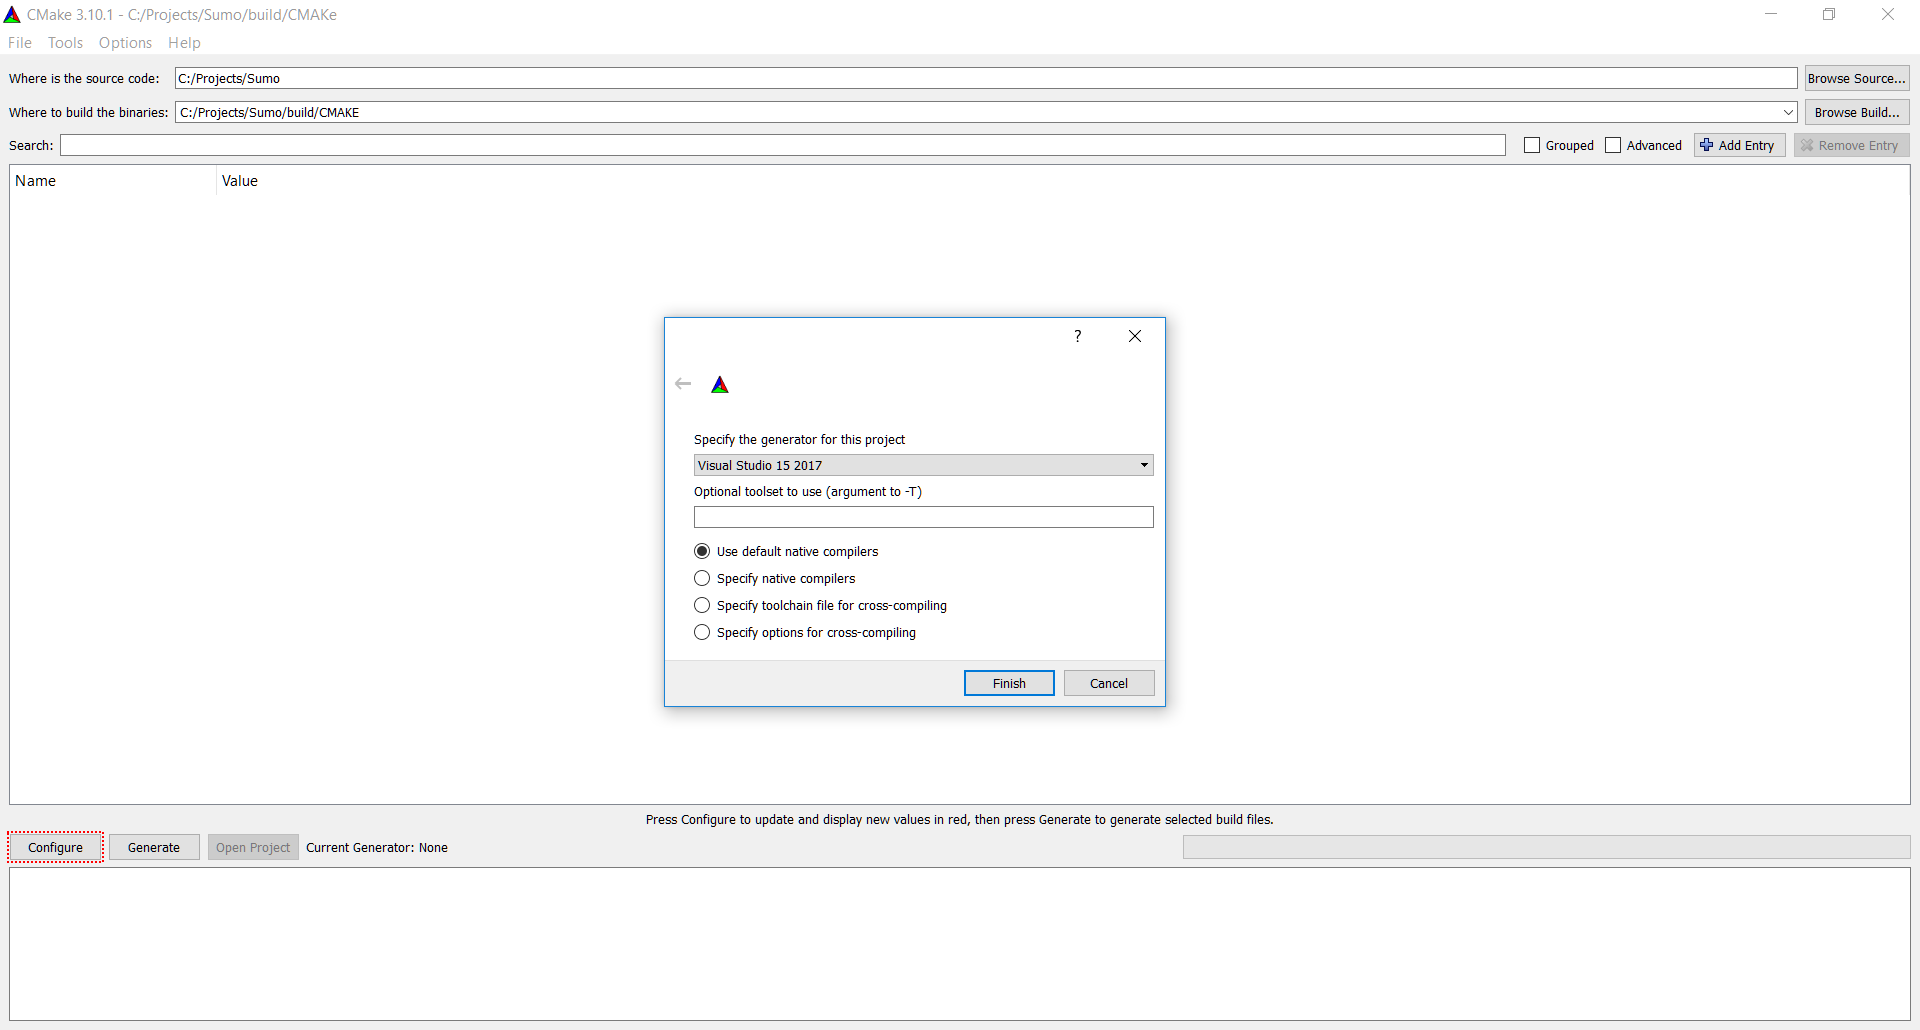
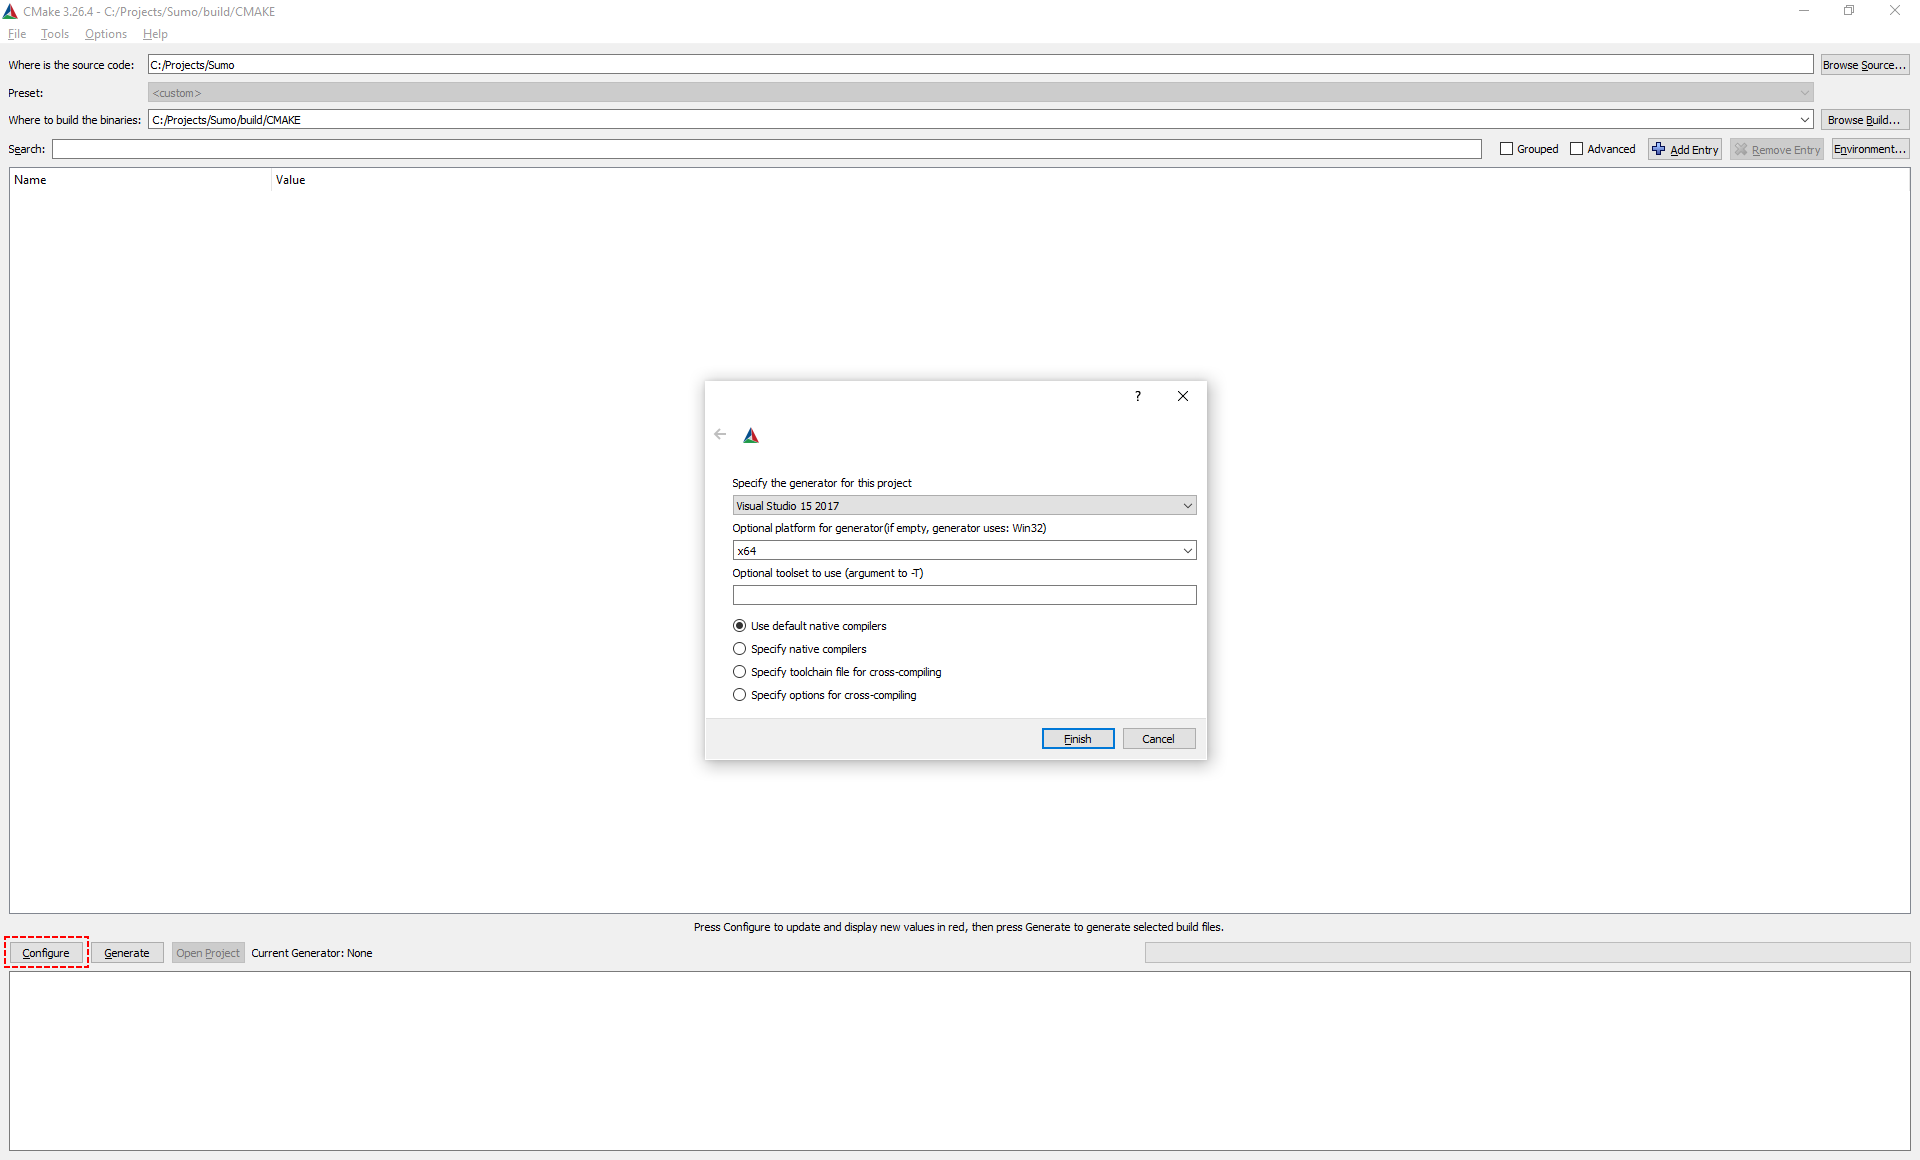
#2 adding an instruction to the CMake configuration

diff --git a/docs/web/docs/Installing/Windows_Build.md b/docs/web/docs/Installing/Windows_Build.md
@@ -116,7 +116,8 @@ pip install -r tools\requirements.txt
   - It can be identical to the source path, but we recommend to separate them
   - Build directory will be created if necessary
 - Start configuration by pressing the "Configure" button
-  - Select compiler (the default should do)
+  - Select the compiler (the default should do)
+  - Select the platform `x64`
 - Create the Visual Studio solution by clicking on "Generate"
 - Open the generated solution (.sln file) (e.g. *D:\\projects\\sumo\\cmake-build\\SUMO.sln*) using the File Explorer or by clicking on "Open Project"
 - Build the configurations you want
